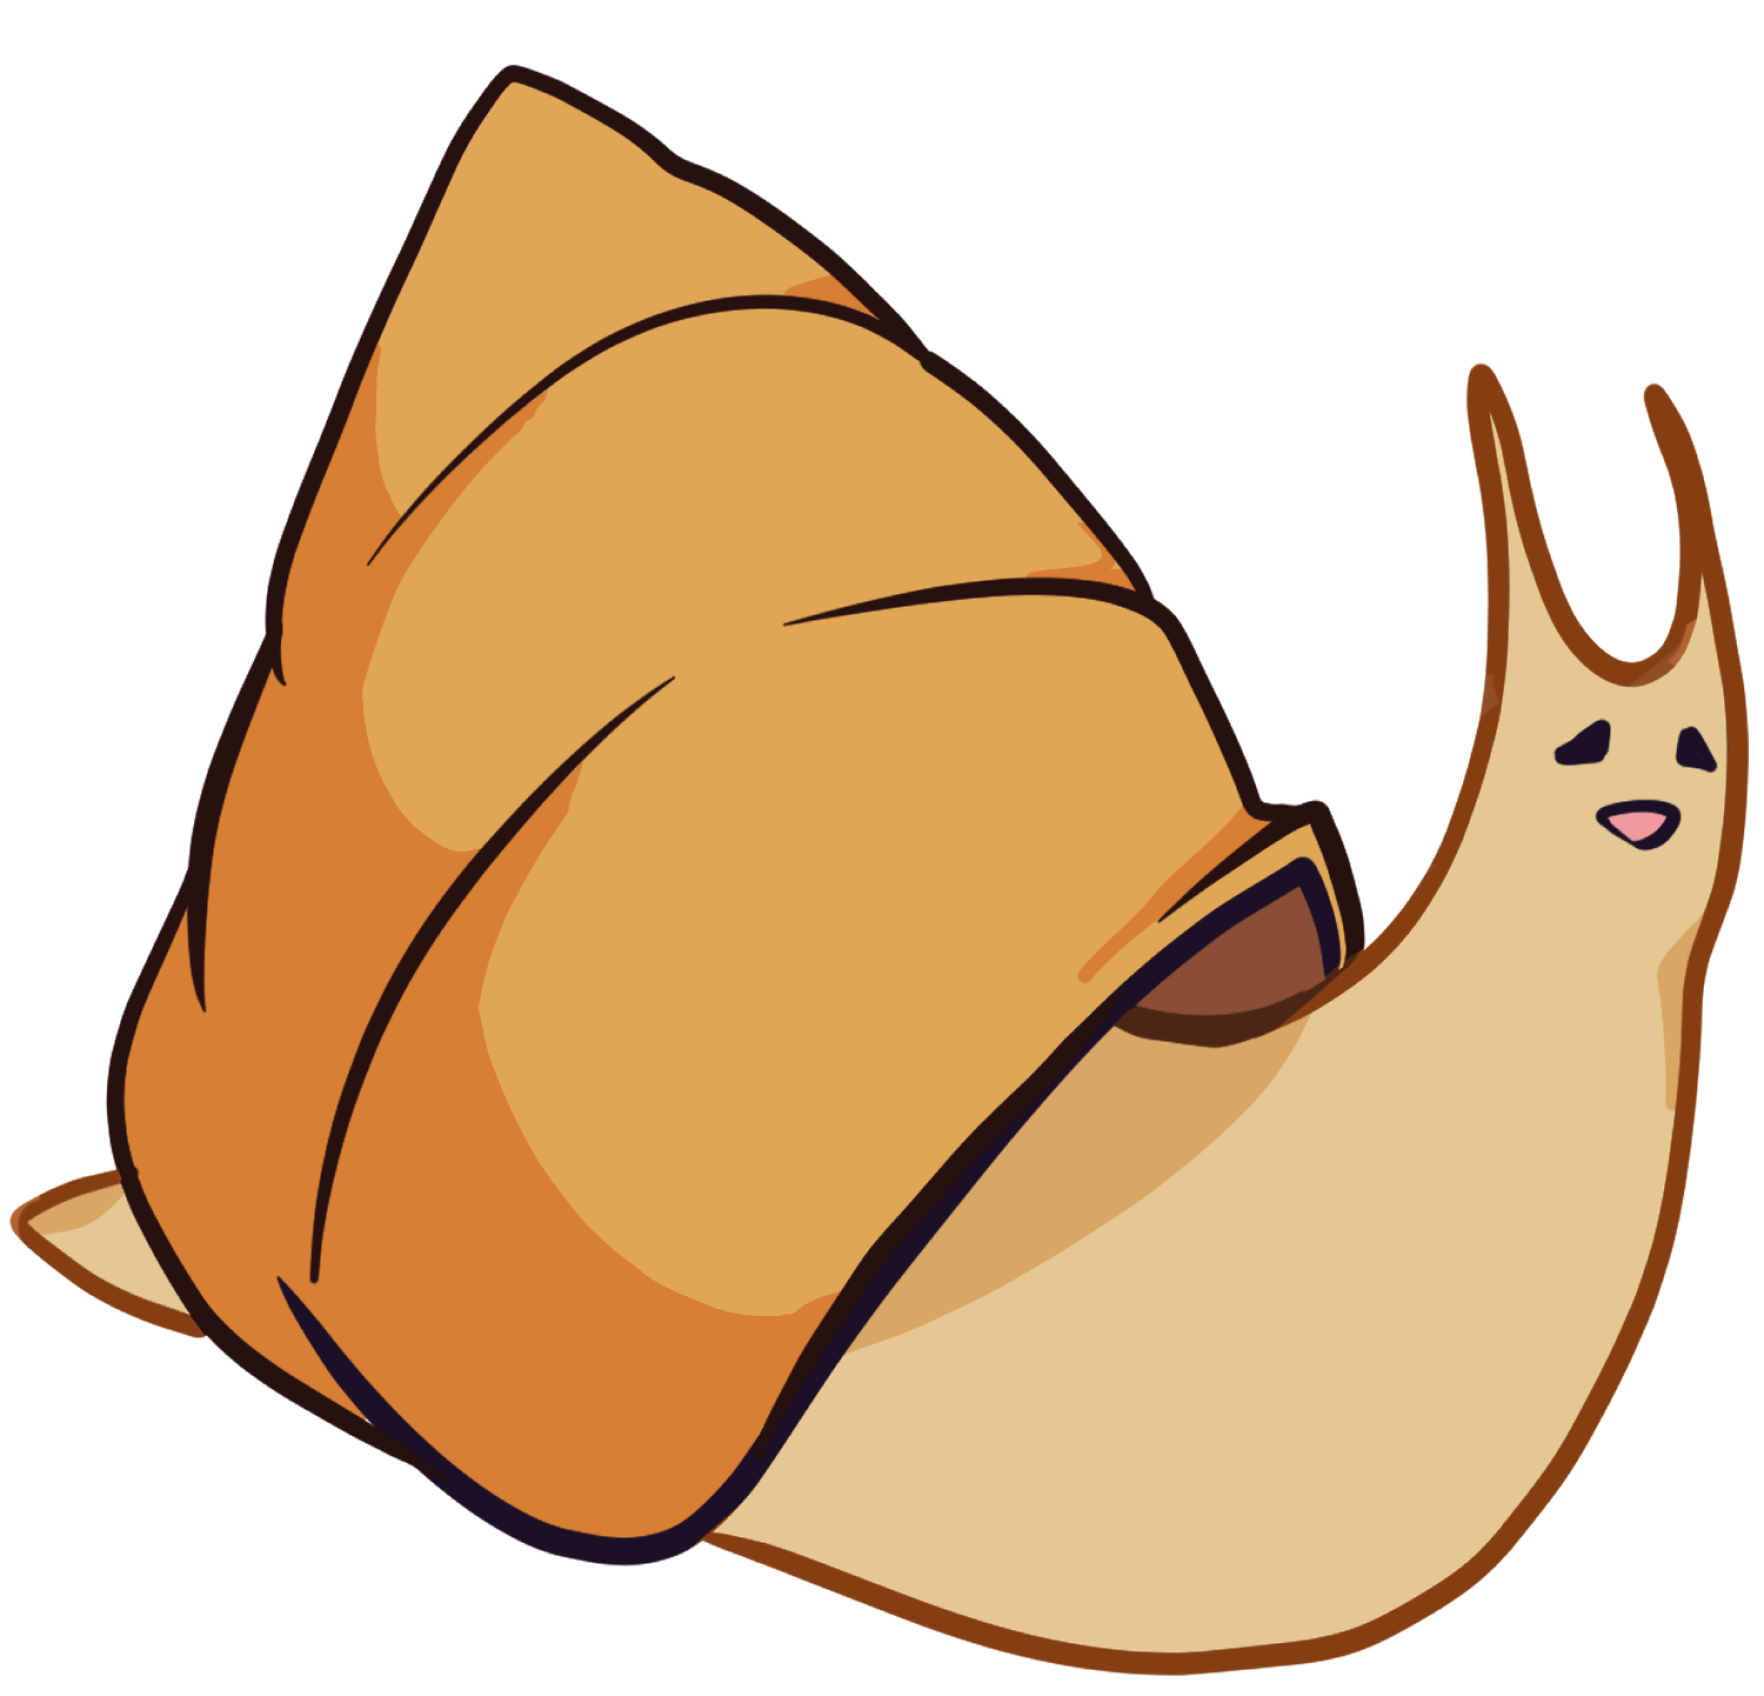
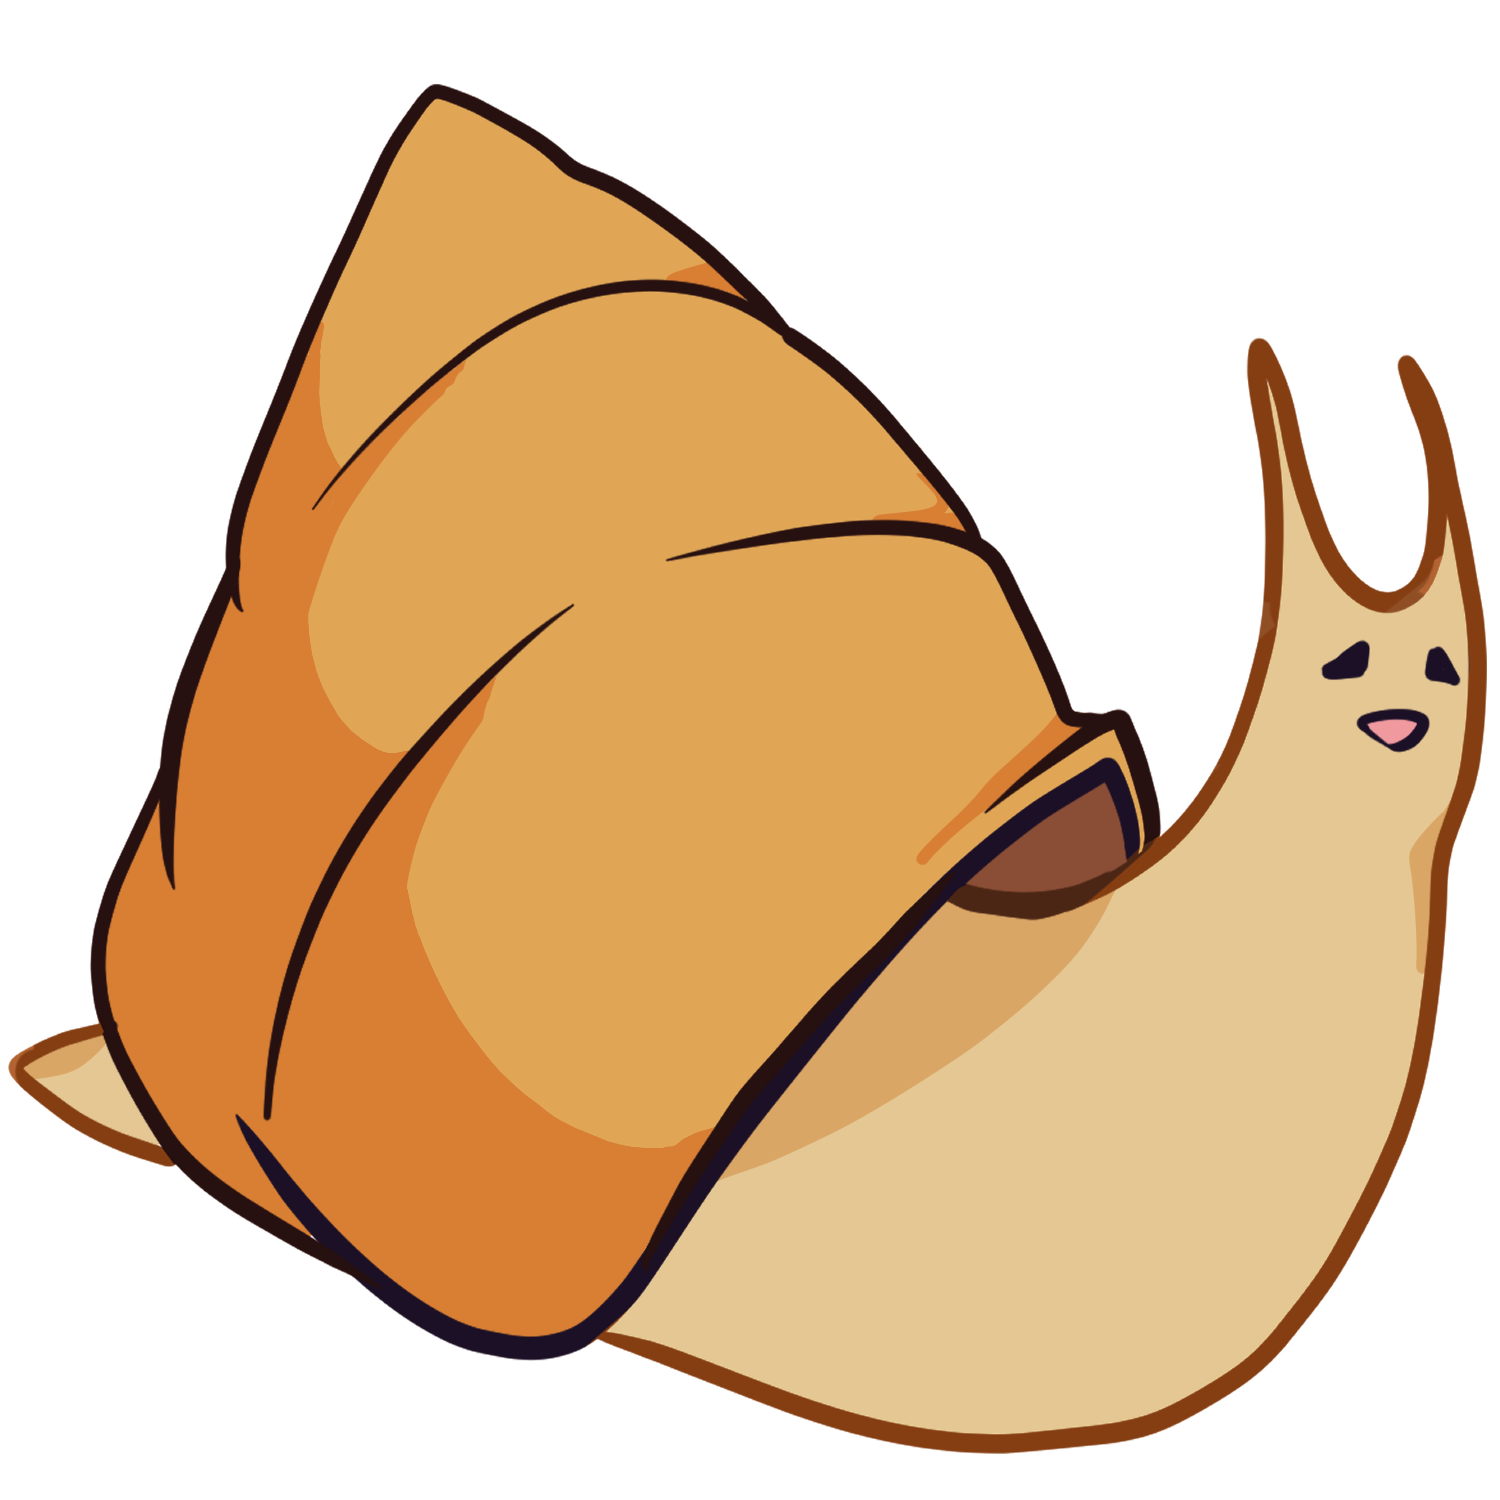
Add snail images, styling for SnailSelectCards

diff --git a/client/src/components/complex-components/Snails/SnailSelectCard.tsx b/client/src/components/complex-components/Snails/SnailSelectCard.tsx
@@ -1,0 +1,81 @@
+import React from 'react';
+import styled, { css } from 'styled-components';
+import { COLORS } from '../../../constants';
+import { H2 } from '../../simple-components';
+
+import BlueDefaultSnail from '../../../imgs/snails/blue-default.png';
+import PinkDefaultSnail from '../../../imgs/snails/pink-default.png';
+import YellowDefaultSnail from '../../../imgs/snails/yellow-default.png';
+
+type SnailSelectCardTypes = {
+    /**
+     * The color of the snail to be shown
+     */
+    color: string;
+    /**
+     * If selected
+     */
+    selected?: boolean;
+}
+
+const CardWrapper = styled.div<{$selected?: boolean}>`
+  width: 30rem;
+  height: 32.5rem;
+  padding: 30px 15px;
+  background-color: ${COLORS.PURPLE_LIGHT};
+  box-shadow: 10px 10px 10px #220d50;
+  transition: background-color 0.25s ease-out;
+  border-radius: 15px;
+  border: none;
+
+  display: flex;
+  flex-direction: column;
+  align-items: center;
+  justify-content: space-around;
+
+  :hover {
+    background-color: ${COLORS.PURPLE_MID};
+    h2 {
+        color: ${COLORS.WHITE};
+    }
+    img {
+        filter: drop-shadow(0px 0px 20px rgba(255, 255, 255, 0.5));
+    }
+  }
+
+  ${(props) => props.$selected && css `
+    background-color: ${COLORS.PURPLE_MID};
+    border: 5px solid ${COLORS.PURPLE_LIGHT};
+    h2 {
+        color: ${COLORS.WHITE};
+    }
+    img {
+        filter: drop-shadow(0px 0px 20px rgba(255, 255, 255, 0.5));
+    }
+  `}
+`;
+
+function GetSnailImg(capitalizedColor: string) {
+    if(capitalizedColor === 'Blue') {
+        return BlueDefaultSnail;
+    }
+    if(capitalizedColor === 'Pink') {
+        return PinkDefaultSnail;
+    }
+    else { // Fallback
+        return YellowDefaultSnail;
+    }
+}
+
+export const SnailSelectCard = ({color, selected}: SnailSelectCardTypes) => {
+    const capitalizedColor = color.charAt(0).toUpperCase() + color.slice(1).toLowerCase(); // Proper capitalization for header
+
+    return(
+        <CardWrapper $selected={selected}>
+            <H2>{capitalizedColor}</H2>
+            <img src={GetSnailImg(capitalizedColor)} width="275"/>
+        </CardWrapper>
+    );
+}
+
+export default SnailSelectCard;

diff --git a/client/src/pages/SnailSelection.tsx b/client/src/pages/SnailSelection.tsx
@@ -1,0 +1,34 @@
+import React from 'react';
+import styled, { css } from 'styled-components';
+import { PageWrapper, SnailSelectCard } from '../components';
+
+const FlexBoxWrapper = styled.div`
+    height: 85vh;
+    display: flex;
+    flex-direction: column;
+    align-items: center;
+    justify-content: center;
+`;
+
+const Radio = styled.div`
+    display: flex;
+    align-items: center;
+    justify-content: center;
+    gap: 5rem;
+`;
+
+function SnailSelection() {
+    return (
+        <PageWrapper pageTitle="Select A Snail">
+            <FlexBoxWrapper>
+                <Radio>
+                    <SnailSelectCard color='blue'/>
+                    <SnailSelectCard color='pink' selected/>
+                    <SnailSelectCard color='yellow'/>
+                </Radio>
+            </FlexBoxWrapper>
+        </PageWrapper>
+    );
+}
+
+export default SnailSelection;

diff --git a/client/src/index.tsx b/client/src/index.tsx
@@ -9,6 +9,7 @@ import Home from './pages/Home';
 import About from './pages/About';
 import CreateCluster from './pages/CreateCluster';
 import SearchResults from './pages/SearchResults';
+import SnailSelection from './pages/SnailSelection';
 import ViewClusters from './pages/ViewClusters';
 
 const root = ReactDOM.createRoot(
@@ -21,6 +22,7 @@ root.render(
       <Route path="/about" element={<About />} />
       <Route path="/create-cluster" element={<CreateCluster />} />
       <Route path="/search-results" element={<SearchResults />} />
+      <Route path="/snail-selection" element={<SnailSelection />} />
       <Route path="/view-clusters" element={<ViewClusters />} />
     </Routes>
   </BrowserRouter>

diff --git a/client/src/components/complex-components/index.tsx b/client/src/components/complex-components/index.tsx
@@ -3,4 +3,5 @@ export * from './Media';
 export * from './NavBar';
 export * from './PageWrapper';
 export * from './SearchBar';
+export * from './Snails';
 export * from './BookData';

diff --git a/client/src/components/complex-components/Snails/index.tsx b/client/src/components/complex-components/Snails/index.tsx
@@ -1,0 +1,1 @@
+export {SnailSelectCard} from './SnailSelectCard';
